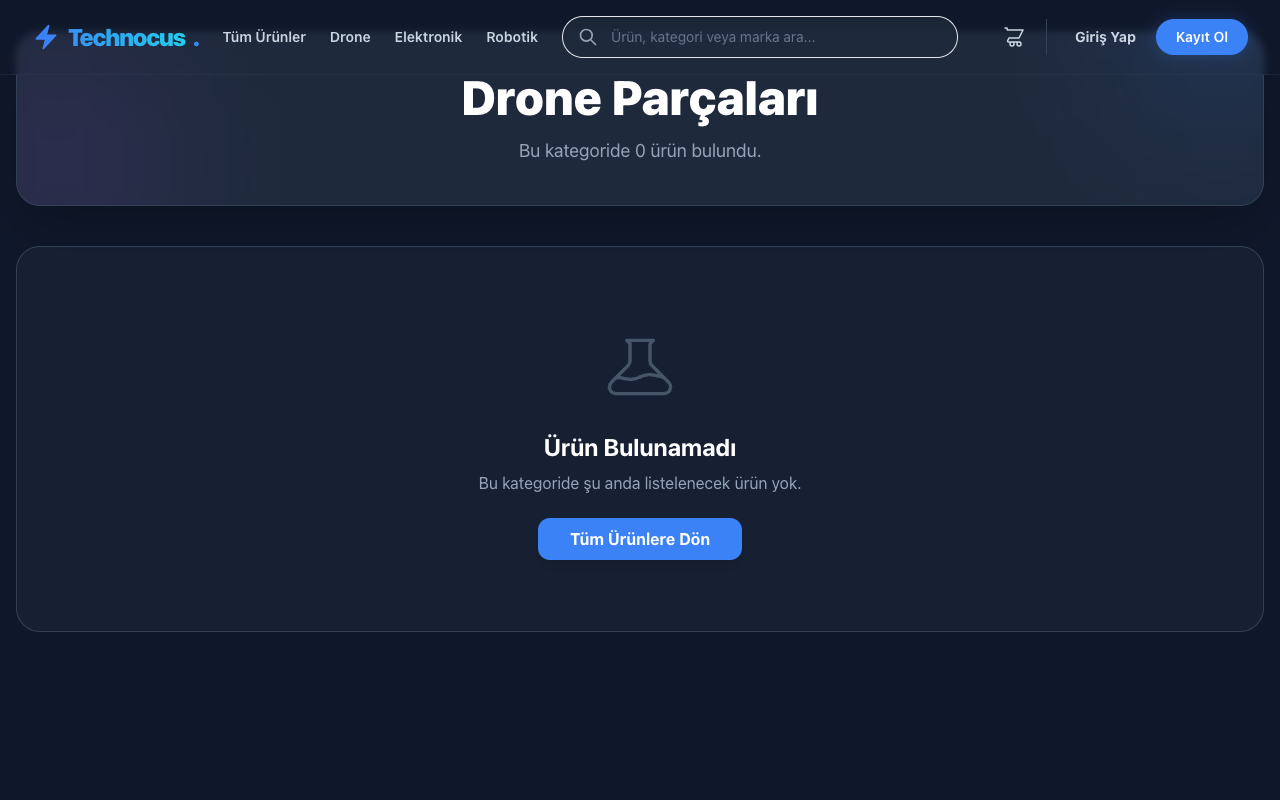
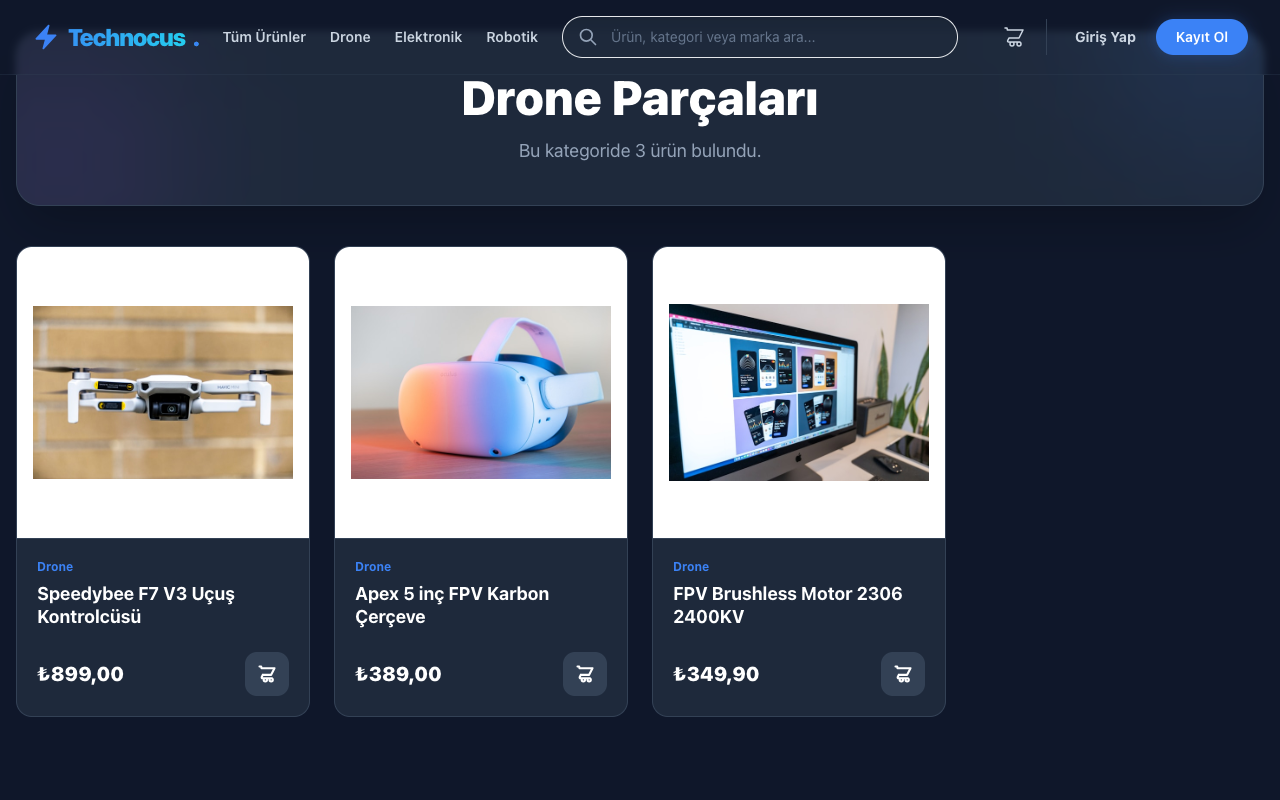
feat: ürün görselleri Cloudinary'e yüklendi, admin görsel yükleme eklendi

diff --git a/frontend/src/app/admin/products/[id]/page.tsx b/frontend/src/app/admin/products/[id]/page.tsx
@@ -1,0 +1,248 @@
+"use client";
+
+import { useState, useEffect } from 'react';
+import { useRouter } from 'next/navigation';
+import { apiFetch } from '@/lib/api';
+
+export default function EditProductPage({ params }: { params: { id: string } }) {
+  const router = useRouter();
+  const [isSubmitting, setIsSubmitting] = useState(false);
+  const [product, setProduct] = useState<any>(null);
+  const [specs, setSpecs] = useState<{ key: string, value: string }[]>([]);
+  const [files, setFiles] = useState<FileList | null>(null);
+  const [categories, setCategories] = useState<any[]>([]);
+  const [loading, setLoading] = useState(true);
+  
+  const productId = params.id;
+
+  useEffect(() => {
+    Promise.all([
+      apiFetch('/api/categories/'),
+      apiFetch(`/api/products/${productId}`)
+    ]).then(([catsData, prodData]) => {
+      setCategories(catsData);
+      setProduct(prodData);
+      
+      if (prodData.spec_data) {
+        const specArr = Object.entries(prodData.spec_data).map(([k, v]) => ({ key: k, value: String(v) }));
+        setSpecs(specArr.length > 0 ? specArr : [{ key: '', value: '' }]);
+      } else {
+        setSpecs([{ key: '', value: '' }]);
+      }
+      setLoading(false);
+    }).catch(err => {
+      console.error(err);
+      alert("Ürün yüklenemedi!");
+      router.back();
+    });
+  }, [productId, router]);
+
+  const handleAddSpec = () => {
+    setSpecs([...specs, { key: '', value: '' }]);
+  };
+
+  const handleSpecChange = (index: number, field: 'key' | 'value', value: string) => {
+    const newSpecs = [...specs];
+    newSpecs[index][field] = value;
+    setSpecs(newSpecs);
+  };
+
+  const handleRemoveSpec = (index: number) => {
+    setSpecs(specs.filter((_, i) => i !== index));
+  };
+
+  const handleSubmit = async (e: React.FormEvent<HTMLFormElement>) => {
+    e.preventDefault();
+    setIsSubmitting(true);
+    
+    try {
+      const formData = new FormData(e.currentTarget);
+      let imageUrls: string[] = product.image_urls || [];
+
+      // 1. Upload Images if new files are selected
+      if (files && files.length > 0) {
+        const imageFormData = new FormData();
+        Array.from(files).forEach(file => {
+          imageFormData.append('files', file);
+        });
+
+        const token = localStorage.getItem("token");
+        const uploadRes = await fetch(`${process.env.NEXT_PUBLIC_API_URL || "http://localhost:8000"}/api/upload/images`, {
+          method: 'POST',
+          headers: {
+            "Authorization": `Bearer ${token}` 
+          },
+          body: imageFormData
+        });
+
+        if (uploadRes.ok) {
+          // Add new images (or overwrite if you prefer. we'll overwrite for simplicity)
+          imageUrls = await uploadRes.json();
+        } else {
+            throw new Error("Görsel yüklenemedi: " + await uploadRes.text());
+        }
+      }
+
+      // 2. Prepare Product Data
+      const specData = specs.reduce((acc, curr) => {
+        if (curr.key && curr.value) acc[curr.key] = curr.value;
+        return acc;
+      }, {} as Record<string, string>);
+
+      const productData = {
+        name: formData.get('name'),
+        sku: formData.get('sku'),
+        description: formData.get('description'),
+        price: parseFloat(formData.get('price') as string),
+        stock: parseInt(formData.get('stock') as string),
+        category_id: parseInt(formData.get('category_id') as string),
+        min_stock_alert: parseInt(formData.get('min_stock_alert') as string) || 5,
+        is_active: formData.get('is_active') === 'true',
+        spec_data: specData,
+        image_urls: imageUrls,
+      };
+
+      // 3. Update Product
+      await apiFetch(`/api/products/${productId}`, {
+        method: 'PUT',
+        body: JSON.stringify(productData),
+      });
+
+      router.push('/admin/products');
+    } catch (error: any) {
+      console.error("Error updating product:", error);
+      alert("Ürün güncellenirken bir hata oluştu: " + error.message);
+    } finally {
+      setIsSubmitting(false);
+    }
+  };
+
+  if (loading) return <div className="text-white text-center py-20">Yükleniyor...</div>;
+
+  return (
+    <div className="py-8 max-w-4xl mx-auto">
+      <div className="flex justify-between items-center mb-8">
+        <h1 className="text-3xl font-bold text-white">Ürünü Düzenle: {product.name}</h1>
+        <button type="button" onClick={() => router.back()} className="text-slate-400 hover:text-white transition-colors">Geri Dön</button>
+      </div>
+
+      <form onSubmit={handleSubmit} className="space-y-8">
+        <div className="bg-navy-800 rounded-xl p-6 border border-navy-700 shadow-lg space-y-6">
+          <h2 className="text-xl font-semibold text-white border-b border-navy-700 pb-2">Temel Bilgiler</h2>
+          
+          <div className="grid grid-cols-1 md:grid-cols-2 gap-6">
+            <div>
+              <label className="block text-sm font-medium text-slate-300 mb-2">Ürün Adı *</label>
+              <input required name="name" type="text" defaultValue={product.name} className="input-field" />
+            </div>
+            <div>
+              <label className="block text-sm font-medium text-slate-300 mb-2">SKU *</label>
+              <input required name="sku" type="text" defaultValue={product.sku} className="input-field" disabled title="SKU değiştirilemez" />
+            </div>
+          </div>
+
+          <div>
+            <label className="block text-sm font-medium text-slate-300 mb-2">Açıklama</label>
+            <textarea name="description" rows={4} defaultValue={product.description || ''} className="input-field resize-none"></textarea>
+          </div>
+
+          <div className="grid grid-cols-1 md:grid-cols-3 gap-6">
+            <div>
+              <label className="block text-sm font-medium text-slate-300 mb-2">Fiyat (TL) *</label>
+              <input required name="price" type="number" step="0.01" min="0" defaultValue={product.price} className="input-field" />
+            </div>
+            <div>
+              <label className="block text-sm font-medium text-slate-300 mb-2">Stok Adedi *</label>
+              <input required name="stock" type="number" min="0" defaultValue={product.stock} className="input-field" />
+            </div>
+            <div>
+              <label className="block text-sm font-medium text-slate-300 mb-2">Kategori *</label>
+              <select required name="category_id" defaultValue={product.category_id} className="input-field">
+                {categories.map(cat => (
+                  <option key={cat.id} value={cat.id}>{cat.name}</option>
+                ))}
+              </select>
+            </div>
+          </div>
+          
+          <div className="grid grid-cols-1 md:grid-cols-2 gap-6">
+             <div>
+              <label className="block text-sm font-medium text-slate-300 mb-2">Kritik Stok Uyarısı</label>
+              <input name="min_stock_alert" type="number" min="0" defaultValue={product.min_stock_alert} className="input-field" />
+            </div>
+            <div>
+              <label className="block text-sm font-medium text-slate-300 mb-2">Aktif Mi?</label>
+              <select name="is_active" defaultValue={product.is_active ? 'true' : 'false'} className="input-field">
+                <option value="true">Aktif</option>
+                <option value="false">Pasif</option>
+              </select>
+            </div>
+          </div>
+        </div>
+
+        <div className="bg-navy-800 rounded-xl p-6 border border-navy-700 shadow-lg space-y-6">
+          <h2 className="text-xl font-semibold text-white border-b border-navy-700 pb-2">Görseller (Cloudinary)</h2>
+          
+          {product.image_urls && product.image_urls.length > 0 && (
+            <div className="flex gap-4 overflow-x-auto pb-4">
+               {product.image_urls.map((img: string, i: number) => (
+                  <img key={i} src={img} alt="Product image" className="w-32 h-32 object-cover rounded-lg border border-navy-700" />
+               ))}
+            </div>
+          )}
+
+          <div>
+            <label className="block text-sm font-medium text-slate-300 mb-2">Yeni Görseller Seç (Mevcut olanları ezer)</label>
+            <input 
+              type="file" 
+              multiple 
+              accept="image/*"
+              className="block w-full text-sm text-slate-400 file:mr-4 file:py-2 file:px-4 file:rounded-lg file:border-0 file:text-sm file:font-semibold file:bg-electric-default file:text-white hover:file:bg-electric-hover cursor-pointer" 
+              onChange={(e) => setFiles(e.target.files)}
+            />
+            <p className="mt-2 text-xs text-slate-500">Seçilen görseller otomatik olarak Cloudinary'ye yüklenecektir.</p>
+          </div>
+        </div>
+
+        <div className="bg-navy-800 rounded-xl p-6 border border-navy-700 shadow-lg space-y-6">
+          <div className="flex justify-between items-center border-b border-navy-700 pb-2">
+            <h2 className="text-xl font-semibold text-white">Teknik Özellikler</h2>
+            <button type="button" onClick={handleAddSpec} className="text-sm font-medium text-electric-default hover:text-white transition-colors bg-electric-default/10 px-3 py-1 rounded"> + Özellik Ekle</button>
+          </div>
+          
+          <div className="space-y-4">
+            {specs.map((spec, index) => (
+              <div key={index} className="flex gap-4">
+                <input 
+                  type="text" 
+                  placeholder="Örn: Çalışma Gerilimi" 
+                  className="input-field flex-1" 
+                  value={spec.key}
+                  onChange={(e) => handleSpecChange(index, 'key', e.target.value)}
+                />
+                <input 
+                  type="text" 
+                  placeholder="Örn: 5V" 
+                  className="input-field flex-1" 
+                  value={spec.value}
+                  onChange={(e) => handleSpecChange(index, 'value', e.target.value)}
+                />
+                <button type="button" onClick={() => handleRemoveSpec(index)} className="p-3 text-red-400 hover:bg-red-400/10 rounded-lg transition-colors border border-transparent hover:border-red-400/20">
+                  <svg xmlns="http://www.w3.org/2000/svg" className="h-5 w-5" fill="none" viewBox="0 0 24 24" stroke="currentColor"><path strokeLinecap="round" strokeLinejoin="round" strokeWidth={2} d="M19 7l-.867 12.142A2 2 0 0116.138 21H7.862a2 2 0 01-1.995-1.858L5 7m5 4v6m4-6v6m1-10V4a1 1 0 00-1-1h-4a1 1 0 00-1 1v3M4 7h16" /></svg>
+                </button>
+              </div>
+            ))}
+            {specs.length === 0 && <p className="text-slate-500 text-sm italic">Henüz özellik eklenmedi.</p>}
+          </div>
+        </div>
+
+        <div className="flex justify-end gap-4">
+          <button type="button" onClick={() => router.back()} className="btn-secondary">İptal</button>
+          <button type="submit" disabled={isSubmitting} className="btn-primary min-w-[150px]">
+            {isSubmitting ? 'Güncelleniyor...' : 'Değişiklikleri Kaydet'}
+          </button>
+        </div>
+      </form>
+    </div>
+  );
+}

diff --git a/frontend/src/app/admin/products/page.tsx b/frontend/src/app/admin/products/page.tsx
@@ -74,9 +74,9 @@ export default function AdminProducts() {
                   </td>
                   <td className="px-6 py-4 text-right">
                     <div className="flex justify-end gap-3 text-slate-400">
-                      <button className="hover:text-electric-default transition-colors p-1" title="Düzenle">
+                      <Link href={`/admin/products/${prod.id}`} className="hover:text-electric-default transition-colors p-1" title="Düzenle">
                         <svg xmlns="http://www.w3.org/2000/svg" className="h-5 w-5" fill="none" viewBox="0 0 24 24" stroke="currentColor"><path strokeLinecap="round" strokeLinejoin="round" strokeWidth={2} d="M11 5H6a2 2 0 00-2 2v11a2 2 0 002 2h11a2 2 0 002-2v-5m-1.414-9.414a2 2 0 112.828 2.828L11.828 15H9v-2.828l8.586-8.586z" /></svg>
-                      </button>
+                      </Link>
                       <button className="hover:text-red-400 transition-colors p-1" title="Sil">
                         <svg xmlns="http://www.w3.org/2000/svg" className="h-5 w-5" fill="none" viewBox="0 0 24 24" stroke="currentColor"><path strokeLinecap="round" strokeLinejoin="round" strokeWidth={2} d="M19 7l-.867 12.142A2 2 0 0116.138 21H7.862a2 2 0 01-1.995-1.858L5 7m5 4v6m4-6v6m1-10V4a1 1 0 00-1-1h-4a1 1 0 00-1 1v3M4 7h16" /></svg>
                       </button>

diff --git a/backend/app/main.py b/backend/app/main.py
@@ -218,6 +218,75 @@ async def startup_event():
                 
                 await db.commit()
                 logger.info("[SEED] ✅ Ürün kategorileri DB üzerinde eşleştirildi.")
+                
+            # --- Cloudinary Gerçek Ürün Görselleri Eşleştirmesi ---
+            import cloudinary
+            import cloudinary.uploader
+            from app.core.config import settings
+            import asyncio
+            
+            cloudinary.config(
+                cloud_name=settings.CLOUDINARY_CLOUD_NAME,
+                api_key=settings.CLOUDINARY_API_KEY,
+                api_secret=settings.CLOUDINARY_API_SECRET
+            )
+            
+            products_for_img = (await db.execute(text('SELECT id, name, image_urls FROM products'))).fetchall()
+            for product_id, name, image_urls in products_for_img:
+                needs_update = False
+                if not image_urls:
+                    needs_update = True
+                elif isinstance(image_urls, list) and len(image_urls) > 0:
+                    if 'res.cloudinary.com' not in image_urls[0]:
+                        needs_update = True
+                
+                if needs_update:
+                    name_lower = str(name).lower()
+                    image_url = None
+                    
+                    if 'dji' in name_lower or 'mini' in name_lower:
+                        image_url = 'https://images.unsplash.com/photo-1473968512647-3e447244af8f?w=800'
+                    elif 'fpv' in name_lower or 'racing' in name_lower:
+                        image_url = 'https://images.unsplash.com/photo-1527977966376-1c8408f9f108?w=800'
+                    elif 'drone' in name_lower or 'quadcopter' in name_lower:
+                        image_url = 'https://images.unsplash.com/photo-1507582020474-9a35b7d455d9?w=800'
+                    elif 'arduino' in name_lower:
+                        image_url = 'https://images.unsplash.com/photo-1553406830-ef2513450d76?w=800'
+                    elif 'raspberry' in name_lower:
+                        image_url = 'https://images.unsplash.com/photo-1580584126903-c17d41830450?w=800'
+                    elif 'sensör' in name_lower or 'sensor' in name_lower:
+                        image_url = 'https://images.unsplash.com/photo-1518770660439-4636190af475?w=800'
+                    elif 'kamera' in name_lower or 'camera' in name_lower:
+                        image_url = 'https://images.unsplash.com/photo-1502920917128-1aa500764cbd?w=800'
+                    elif 'batarya' in name_lower or 'battery' in name_lower or 'lipo' in name_lower:
+                        image_url = 'https://images.unsplash.com/photo-1619642751034-765dfdf7c58e?w=800'
+                    elif 'motor' in name_lower and 'robot' not in name_lower:
+                        image_url = 'https://images.unsplash.com/photo-1565043666747-69f6646db940?w=800'
+                    elif 'robot' in name_lower or 'servo' in name_lower:
+                        image_url = 'https://images.unsplash.com/photo-1485827404703-89b55fcc595e?w=800'
+                    elif 'manipulator' in name_lower or 'kol' in name_lower or 'arm' in name_lower:
+                        image_url = 'https://images.unsplash.com/photo-1561144257-e32e8506e4b6?w=800'
+                    
+                    if image_url:
+                        try:
+                            def upload_sync():
+                                return cloudinary.uploader.upload(
+                                    image_url,
+                                    public_id=f'products/product_{product_id}',
+                                    overwrite=True,
+                                    transformation=[
+                                        {'width': 800, 'height': 800, 'crop': 'fill', 'gravity': 'auto'},
+                                        {'quality': 'auto', 'fetch_format': 'auto'}
+                                    ]
+                                )
+                            result = await asyncio.to_thread(upload_sync)
+                            cloudinary_url = result['secure_url']
+                            await db.execute(text("UPDATE products SET image_urls = ARRAY[:url] WHERE id = :id"), {"url": cloudinary_url, "id": product_id})
+                            logger.info(f"[CLOUDINARY] ✅ {name} yüklendi: {cloudinary_url}")
+                        except Exception as e:
+                            logger.error(f"[CLOUDINARY] ❌ {name} yüklenemedi: {e}")
+            await db.commit()
+            logger.info("[SEED] ✅ Tüm Cloudinary ürün görselleri güncellendi.")
             
     except Exception as e:
         logger.error(f"[SEED] Hata: {e}")
